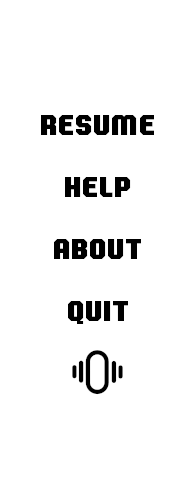
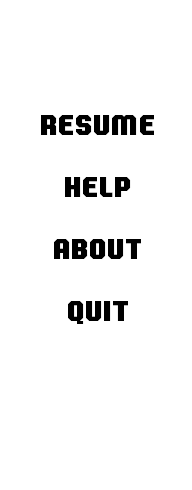
Add vibration on line clear

Changed region(s): [[0.375, 0.7041, 0.6562, 0.8265]]

diff --git a/watchface/index.js b/watchface/index.js
@@ -15,7 +15,7 @@ try {
         g.module = DeviceRuntimeCore.WatchFace({
             init_view() {
                 console.log("Initview called")
-
+                const vibrator = hmSensor.createSensor(hmSensor.id.VIBRATE)
 
                 // Constants and computed values
 
@@ -105,6 +105,7 @@ try {
 
                 // time, game, pause, help, about
                 let state = "game"
+                let vibrationActivated = true
 
                 // Timers
                 let gravityTimer
@@ -211,34 +212,62 @@ try {
                     text: '1546'
                 })
 
-                // Functions definition
+                // Functions definition 
+
+                function vibrate() {
+                    if (vibrationActivated) {
+                        vibrator.stop()
+                        vibrator.scene = 23
+                        vibrator.start()
+                    }
+                }
+
                 function handlePauseMenuClick(info) {
                     if (state == "pause") {
                         if (info.y < 156) {
                             resumeGame()
                         } else if (info.y < 219) {
                             state = "help"
-                            menuWidget.setProperty(hmUI.prop.SRC, `help.png`)
                         } else if (info.y < 279) {
                             state = "about"
-                            menuWidget.setProperty(hmUI.prop.SRC, `about.png`)
                         } else if (info.y < 338) {
                             displayTime()
-                        } else {
-                            toogleVibrations()
                         }
                     } else if (state == "help" || state == "about") {
                         state = "pause"
-                        menuWidget.setProperty(hmUI.prop.SRC, `menu.png`)
                     }
+
+                    refreshPauseMenu()
                 }
 
-                function toogleVibrations() {
-                    // TODO
+                function handleVibrationStatusClick() {
+                    if (state == "pause") {
+                        vibrationActivated = !vibrationActivated
+                        if (vibrationActivated) {
+                            vibrate()
+                        }
+                        refreshPauseMenu()
+                    }
                 }
 
                 function displayTime() {
                     // TODO
+                }
+
+                function refreshPauseMenu() {
+                    let menuDisplayed = true
+                    if (state == "pause") {
+                        menuWidget.setProperty(hmUI.prop.SRC, `menu.png`)
+                        vibrationStatusdWidget.setProperty(hmUI.prop.SRC, `vibration_${vibrationActivated}.png`)
+                    } else if (state == "help") {
+                        menuWidget.setProperty(hmUI.prop.SRC, `help.png`)
+                    } else if (state == "about") {
+                        menuWidget.setProperty(hmUI.prop.SRC, `about.png`)
+                    } else {
+                        menuDisplayed = false
+                    }
+                    menuWidget.setProperty(hmUI.prop.VISIBLE, menuDisplayed)
+                    vibrationStatusdWidget.setProperty(hmUI.prop.VISIBLE, state == "pause")
                 }
 
                 function pauseGame() {
@@ -250,20 +279,23 @@ try {
                             gravityTimer = null
                         }
 
-                        menuWidget.setProperty(hmUI.prop.VISIBLE, true)
                         menuWidget.addEventListener(hmUI.event.CLICK_UP, handlePauseMenuClick)
+                        vibrationStatusdWidget.addEventListener(hmUI.event.CLICK_UP, handleVibrationStatusClick)
                         state = "pause"
+                        refreshPauseMenu()
                     }
                 }
 
                 function resumeGame() {
                     console.log("resume game")
-                    menuWidget.setProperty(hmUI.prop.VISIBLE, false)
                     menuWidget.removeEventListener(hmUI.event.CLICK_UP, handlePauseMenuClick)
+                    vibrationStatusdWidget.removeEventListener(hmUI.event.CLICK_UP, handleVibrationStatusClick)
 
+                    // Enable controls and timer
                     addControlsEventListeners()
                     setGravityTimer()
                     state = "game"
+                    refreshPauseMenu()
                 }
 
                 function generateEmptyPlayArea() {
@@ -381,6 +413,7 @@ try {
                         lines += clearCount
                         level = Math.floor(lines / 5)
                         refreshCounters()
+                        vibrate()
                     }
                 }
 
@@ -572,6 +605,14 @@ try {
                     x: 0,
                     y: 0,
                     src: 'menu.png',
+                    show_level: hmUI.show_level.ONLY_NORMAL
+                })
+
+                const vibrationStatusdWidget = hmUI.createWidget(hmUI.widget.IMG, {
+                    x: 70,
+                    y: 345,
+                    w: 52,
+                    h: 55,
                     show_level: hmUI.show_level.ONLY_NORMAL
                 })
 
